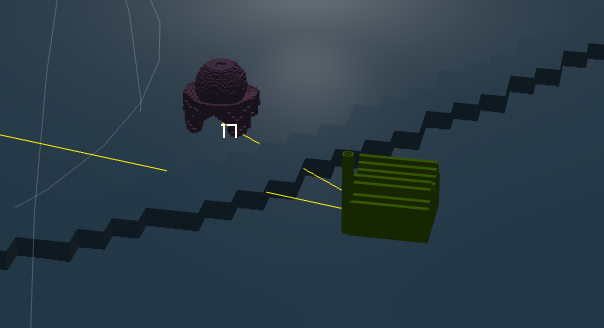
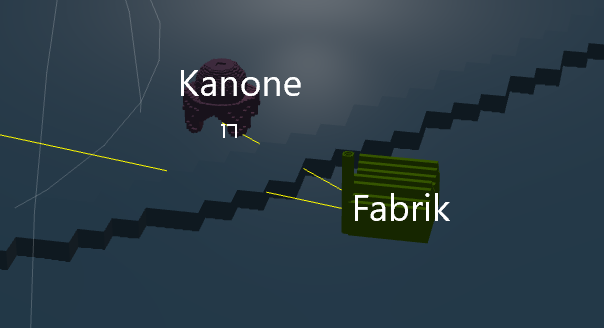
abgabe

Changed region(s): [[0.298, 0.2134, 0.5066, 0.3049], [0.5662, 0.5793, 0.745, 0.6707]]

diff --git a/src/main/java/spiel/visuellen/elemente/biElemente/inGame/TurmPanel.java b/src/main/java/spiel/visuellen/elemente/biElemente/inGame/TurmPanel.java
@@ -31,13 +31,13 @@ public class TurmPanel {
     public void render() {
         if (verstecken && !ziehen) return;
 
-        int textGroesse = (int) UiUtils.getWidthPercent(2);
+        int textGroesse = (int) UiUtils.getWidthPercent(3);
         Raylib.DrawRectangleRoundedLines(rechteck, 0.1f, 10, 5, turm.getFarbe());
         int kosten = turm.getKosten();
         if (turm == Turm.Type.ENERGIE_FABRIK) {
             kosten = (int) (kosten * SpielManager.getInstance().energieFabriken.size() * SpielManager.getInstance().energieFabriken.size() * Math.PI * 0.1f);
         }
-        Raylib.DrawText(turm.getName() + "\n" + kosten, (int) rechteck.x(), (int) rechteck.y(), textGroesse / 2, Jaylib.WHITE);
+        Raylib.DrawText(turm.getName() + "\nkosten: " + kosten, (int) rechteck.x(), (int) rechteck.y(), textGroesse / 2, Jaylib.WHITE);
 
     }
 

diff --git a/src/main/java/spiel/visuellen/szenen/EbenenAuswaehlerSzene.java b/src/main/java/spiel/visuellen/szenen/EbenenAuswaehlerSzene.java
@@ -2,6 +2,8 @@ package spiel.visuellen.szenen;
 
 import com.raylib.Jaylib;
 import com.raylib.Raylib;
+import engine.assets.AssetManager;
+import engine.assets.basic.ImageAsset;
 import engine.math.Vector2;
 import engine.render.scene.Element;
 import engine.render.scene.ElementBatch;
@@ -25,7 +27,7 @@ public class EbenenAuswaehlerSzene extends Scene {
     @Override
     public void init() {
         // Erstellt eine Textur mit einem Schachbrettmuster
-        Raylib.Texture basisVorderbild = Raylib.LoadTextureFromImage(Jaylib.GenImageChecked(1000, 1000, 10, 10, Jaylib.PINK, Jaylib.BLACK));
+        Raylib.Texture basisVorderbild = new AssetManager<ImageAsset>().getAsset("Game/Icons").getTexture("icons");
 
         // Erstellt eine ElementBatch, die alle Elemente der Szene enthält
         ebenenAuswahlPaket = new ElementBatch(new Element[]{

diff --git a/src/main/java/spiel/turm/Turm.java b/src/main/java/spiel/turm/Turm.java
@@ -73,14 +73,14 @@ public abstract class Turm extends Element {
     }
 
     public enum Type {
-        WUERFEL_KANONE("Würfel Kanone", Jaylib.RED, 400),
+        WUERFEL_KANONE("Kanone", Jaylib.RED, 400),
         LASER("Laser", Jaylib.RED, 1300),
         TRON_CANON("Tron Canon", Jaylib.RED, 500),
 
         PYLON("Pylon", Jaylib.PURPLE, 700),
         SPHERE_CANON("Sphere Canon", Jaylib.PURPLE, 600),
 
-        ENERGIE_FABRIK("Energie Fabrik", Jaylib.YELLOW, 100);
+        ENERGIE_FABRIK("Fabrik", Jaylib.YELLOW, 100);
 
         public static final TurmPanel[] panels = new TurmPanel[]{
                 new TurmPanel(WUERFEL_KANONE),

diff --git a/README.md b/README.md
@@ -1,24 +1,10 @@
-# Example Gradle project for Jaylib
+# Voxatron
+Von Jonas(DerCooleVonDem) und Timon(Rebix) für die Schule
 
-You can import this project into IntelliJ or Eclipse.
+## Installation
+minimum java 11
+aus
+build\libs die jar, so wie den Voxatron ordner Kopieren
+und in einen Ordner ziehen.
 
-## Use it to run the included examples in IntelliJ
-
-Right-click on the example and select `run`.
-
-## Use it to run the included examples from the command line
-
-    ./gradlew run -Pmain=examples.HeightMap
-    ./gradlew run -Pmain=examples.CubicMap
-
-## Use it as the basis of your own game.
-
-Edit `Main.java` with your own code.  (You can delete the examples.)  Then
-
-To run:
-
-    ./gradlew run
-
-To build a zip file you can distribute:
-
-    ./gradlew distZip
+Die jar ausführen und fertig.
